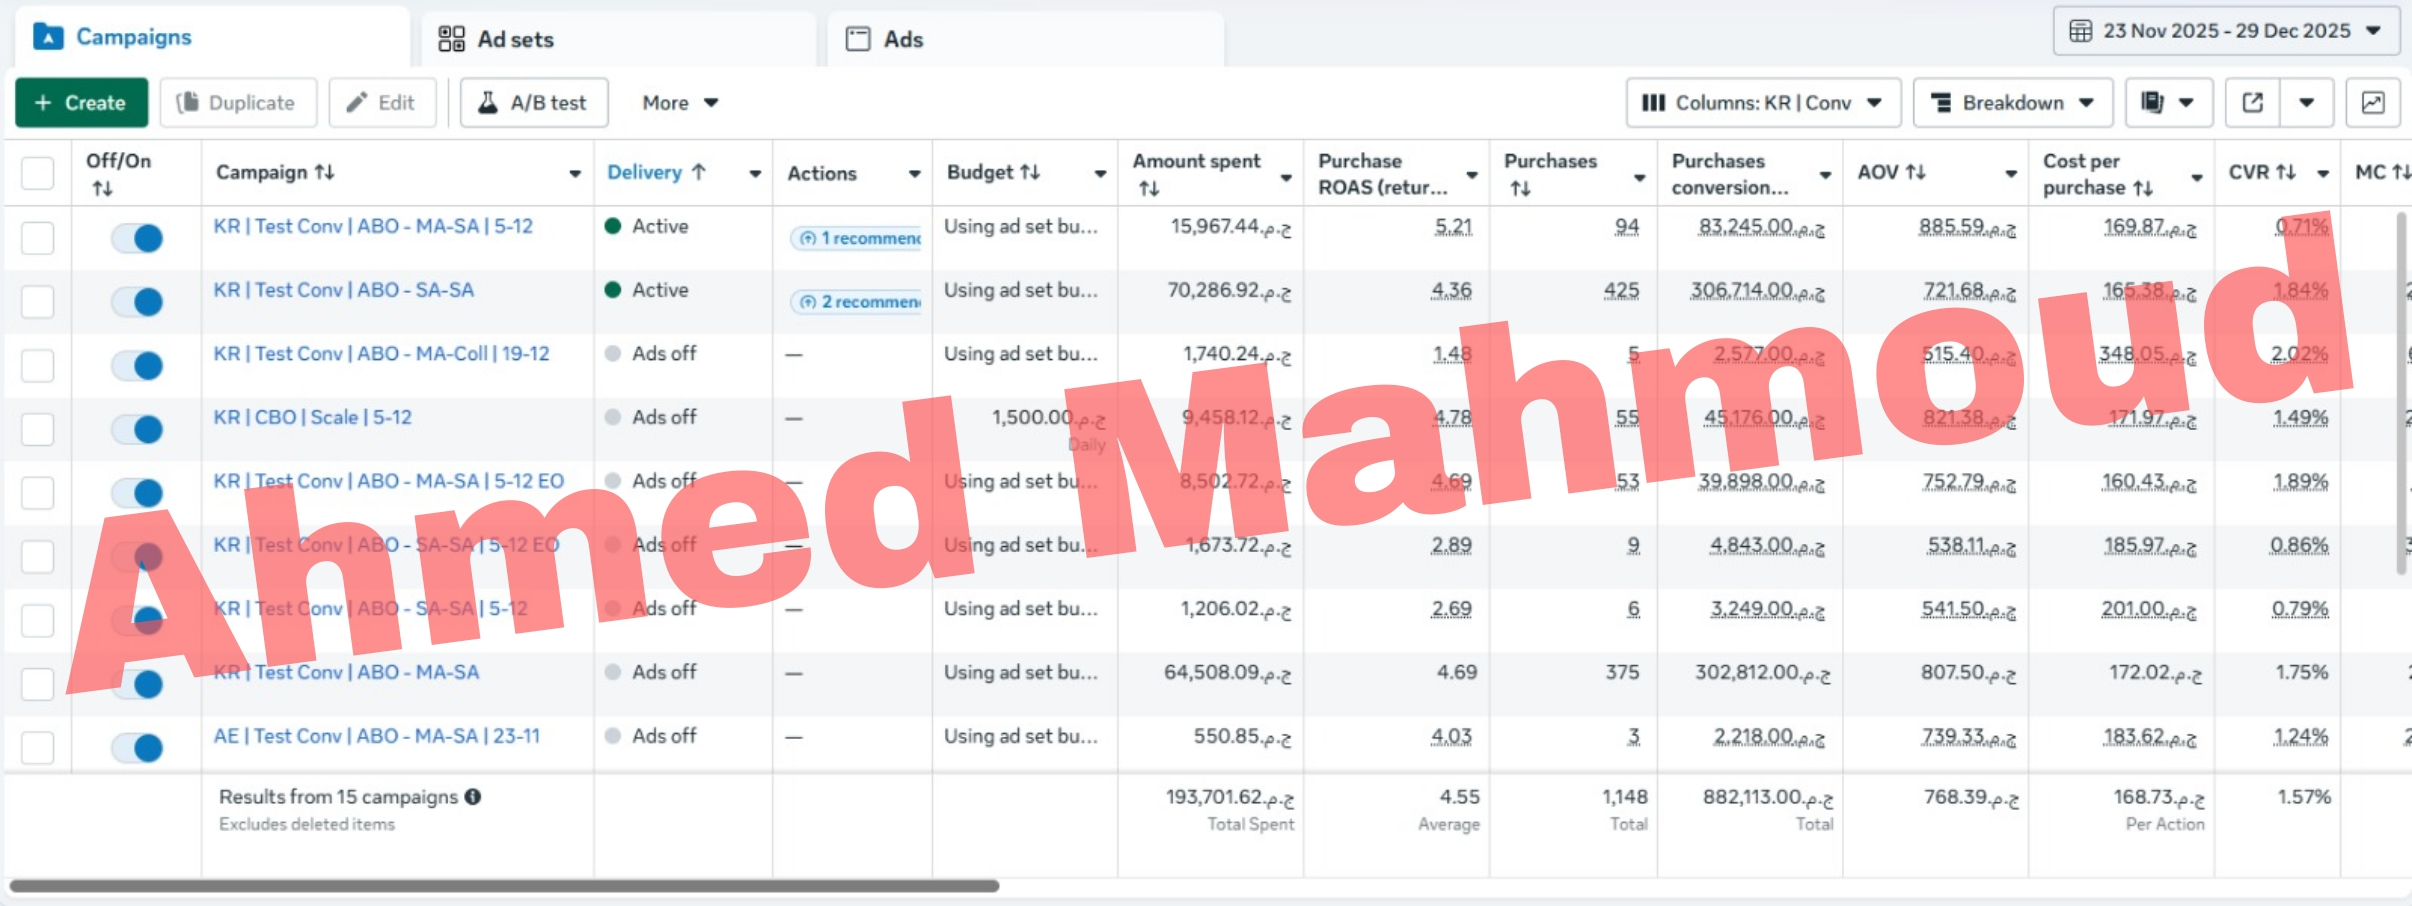
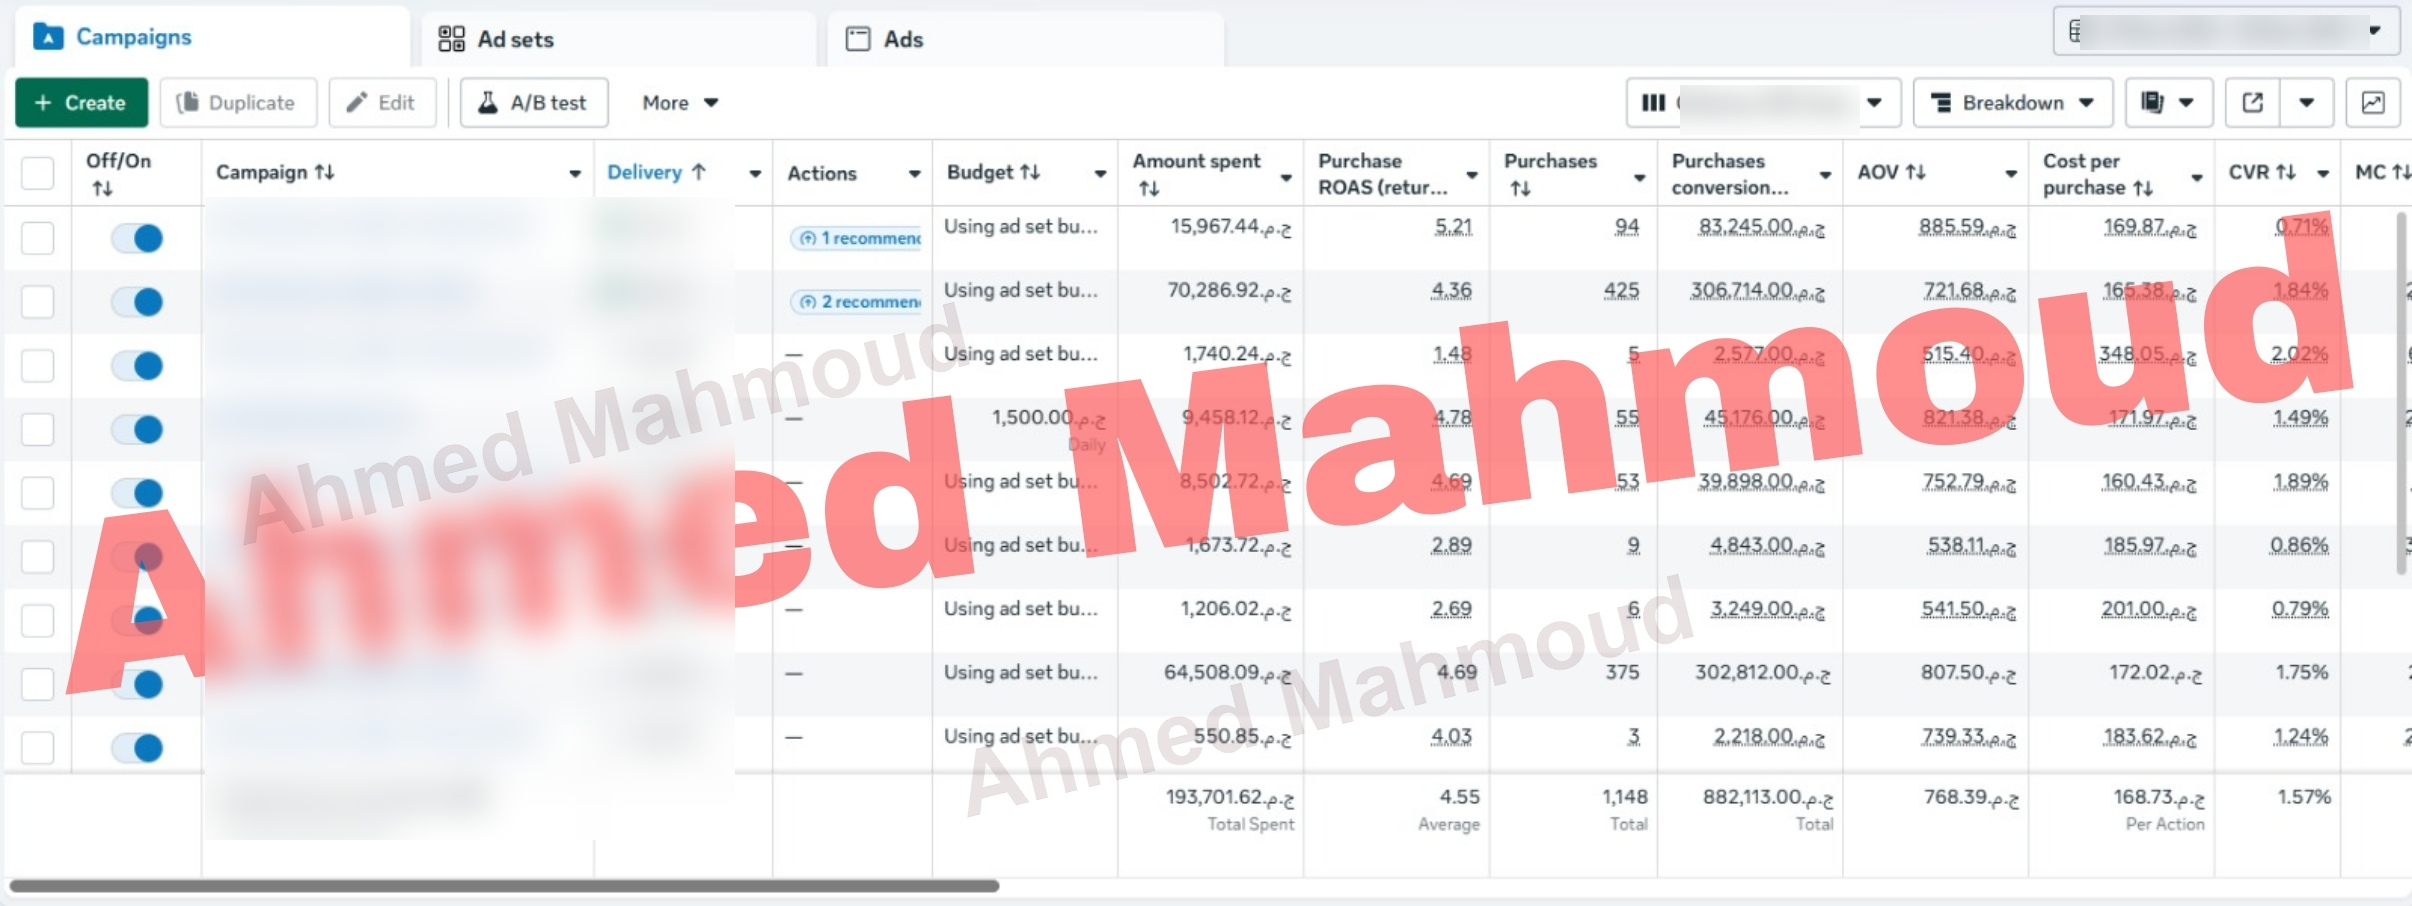
Fix blur: protect dates and client names while preserving 100% crisp metrics; add Skincare & Minz scale proofs with watermark

diff --git a/index.html b/index.html
@@ -1029,6 +1029,47 @@
                         <p class="text-xs text-slate-300 leading-relaxed flex-1" data-editable="true" data-text-key="cskin6x_desc">
                             Two Sept 2026 campaigns above 6x Purchase ROAS: Catalogue Conversion ABO at 17.99x (10 purchases) and the Sales campaign at 9.73x (15 purchases), 11.91x blended on 4.4K EGP. Early-stage data, small sample size; Meta-attributed.
                         </p>
+
+                        <div class="screenshot-box relative rounded-xl overflow-hidden bg-slate-950 border border-dashed border-slate-700 min-h-[180px] flex flex-col items-center justify-center p-2 text-center group" id="dropzone-skin6x" data-card-id="skin6x">
+                            <div id="img-container-skin6x" class="w-full overflow-hidden rounded-lg flex items-center justify-center bg-slate-900">
+                                <img id="img-skin6x" src="skinoria-scale.png" alt="Skincare Meta Ads Proof" class="w-full h-44 object-cover cursor-pointer hover:opacity-90 transition" onclick="openLightboxCurrent('skin6x')" onerror="handleImageError(this, 'skin6x')">
+                            </div>
+
+                            <div id="placeholder-skin6x" class="hidden flex flex-col items-center justify-center p-4 space-y-2">
+                                <svg class="w-8 h-8 text-slate-500" fill="none" stroke="currentColor" viewBox="0 0 24 24"><path stroke-linecap="round" stroke-linejoin="round" stroke-width="1.5" d="M4 16l4.586-4.586a2 2 0 012.828 0L16 16m-2-2l1.586-1.586a2 2 0 012.828 0L20 14m-6-6h.01M6 20h12a2 2 0 002-2V6a2 2 0 00-2-2H6a2 2 0 00-2 2v12a2 2 0 002 2z"></path></svg>
+                                <p class="text-xs font-semibold text-slate-300">No screenshot loaded</p>
+                            </div>
+
+                            <div class="mt-2 w-full flex items-center justify-between gap-2 px-1">
+                                <button onclick="openLightboxCurrent('skin6x')" class="bg-slate-800 hover:bg-slate-700 text-slate-200 text-[11px] font-semibold py-1.5 px-3 rounded-lg border border-slate-700 transition flex items-center gap-1">
+                                    <span>🔍 Inspect Proof</span>
+                                </button>
+
+                                <div class="admin-only hidden flex items-center gap-1">
+                                    <label class="cursor-pointer bg-brand-500/20 hover:bg-brand-500/30 text-brand-400 text-[11px] font-semibold py-1.5 px-2.5 rounded-lg border border-brand-500/30 transition">
+                                        <span>+ Add Image</span>
+                                        <input type="file" accept="image/*" multiple class="hidden" onchange="handleFileInput(event, 'skin6x')">
+                                    </label>
+                                    <button onclick="toggleSettingsDrawer('skin6x')" class="bg-slate-800 hover:bg-slate-700 text-slate-300 p-1.5 rounded-lg border border-slate-700 transition">⚙</button>
+                                </div>
+                            </div>
+
+                            <div id="settings-drawer-skin6x" class="hidden mt-3 p-3 bg-slate-900 border border-slate-800 rounded-xl w-full text-left space-y-3 text-xs">
+                                <div>
+                                    <label class="block text-[10px] text-slate-400 mb-1">Object Fit</label>
+                                    <select onchange="updateImageFit('skin6x', this.value)" class="w-full bg-slate-950 border border-slate-700 rounded-lg px-2 py-1 text-[11px] text-slate-200">
+                                        <option value="cover">Cover (Crop to fill)</option>
+                                        <option value="contain">Contain (Fit full image)</option>
+                                    </select>
+                                </div>
+                                <div>
+                                    <label class="block text-[10px] text-slate-400 mb-1">Height (px)</label>
+                                    <input type="range" min="120" max="500" value="180" oninput="updateImageHeight('skin6x', this.value)" class="w-full accent-brand-500">
+                                </div>
+                            </div>
+
+                            <div id="thumbs-skin6x" class="mt-2 flex gap-1.5 overflow-x-auto w-full max-w-full pb-1 hidden"></div>
+                        </div>
                     </div>
                 </div>
 
@@ -1127,11 +1168,13 @@
             '1': ['1.jpg', '2.jpg', '8.jpg'],
             '3': ['3.jpg'],
             '4': ['4.jpg'],
-            '5': ['5.jpeg'],
+            '5': ['5.jpeg', '6.jpg'],
             '7': ['7.jpg'],
             '9': ['14.jpg'],
             '15': ['15.PNG', '16.PNG'],
             '18': ['18.PNG'],
+            'minz6x': ['minz-6x.png', 'minz-scale.png'],
+            'skin6x': ['skinoria-scale.png', 'skinoria-new.png'],
             'about': ['personal photo.jpg']
         };
 
@@ -1144,6 +1187,8 @@
             '9': 0,
             '15': 0,
             '18': 0,
+            'minz6x': 0,
+            'skin6x': 0,
             'about': 0
         };
 
